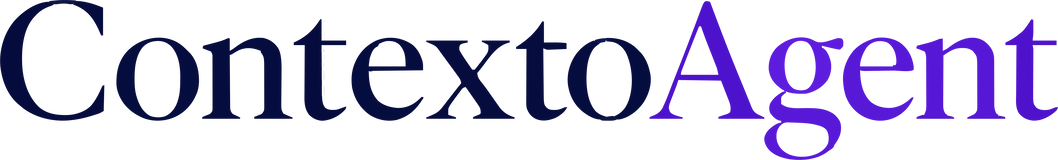
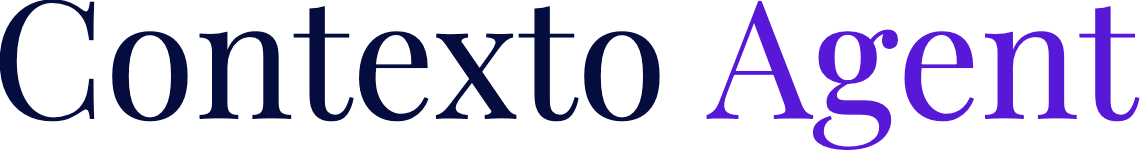
Contexto Agent, two words, everywhere a person reads it
The name is two words and the product wrote it as one -- in the tab, in
the wordmark, in the sign-in logo, in every placeholder and label, in the
desktop app's window and tray, and in what the agent is told to call the
app when it tells a student where to go. Twenty-eight of those were text
and are fixed as text. Two were pictures: the wordmark and the sign-in
logo had the name drawn in. Both are redrawn with the space, in the face
the original was set in (Playfair Display, not the site's PT Serif -- the
ball terminals and the eared g give it away), at the original size and
baseline, in the navy and violet sampled from the original strokes, with
the mark itself left untouched. The sign-in image grew a little wider for
the space, and its width rule grew with it so the mark did not shrink.

What still says ContextoAgent is on purpose: the app bundle and DMG name,
the Application Support folders, the keychain service name, and the
uninstall script that knows all three. Renaming those is a release of the
desktop app and a migration of what students already have on disk, not a
find-and-replace.

Claude-Session: https://claude.ai/code/session_01QLuHwLiKMq1ijBZcMpK3hq

Changed region(s): [[0.0, 0.0, 1.0, 1.0], [0.655, 0.0, 0.6862, 0.3125]]

diff --git a/packages/agent/src/tools/portal.ts b/packages/agent/src/tools/portal.ts
@@ -194,7 +194,7 @@ export const refreshSchoolPortal: Tool<z.infer<typeof refreshInput>, unknown> = 
     if (!ctx.portals) {
       return unavailable(
         'No computer of theirs is linked, so there is nothing that can sign in. Tell them to ' +
-          'open the ContextoAgent app and link this computer -- not that you are unable to do it.',
+          'open the Contexto Agent app and link this computer -- not that you are unable to do it.',
       );
     }
 
@@ -235,7 +235,7 @@ export const refreshSchoolPortal: Tool<z.infer<typeof refreshInput>, unknown> = 
         signedIn: false,
         note:
           `Their computer tried ${portalId} and the site would not accept the saved sign-in. ` +
-          'Say so directly. They can fix it in the ContextoAgent app under Settings, ' +
+          'Say so directly. They can fix it in the Contexto Agent app under Settings, ' +
           'Connections, Sites. Do not tell them to sign in by hand elsewhere -- there is no ' +
           'such thing here.',
       };
@@ -307,7 +307,7 @@ export const browseWithAgent: Tool<z.infer<typeof browseInput>, unknown> = {
     if (!ctx.portals) {
       return unavailable(
         'No computer of theirs is linked, so there is no browser to open. Tell them to link ' +
-          'one in the ContextoAgent app -- not that you are unable to browse.',
+          'one in the Contexto Agent app -- not that you are unable to browse.',
       );
     }
 

diff --git a/apps/web/src/screens/SiteConnections.tsx b/apps/web/src/screens/SiteConnections.tsx
@@ -226,7 +226,7 @@ export function SiteConnections() {
       {editing && (
         <div className="saved-signin">
           <p className="muted small">
-            Kept in your Mac&rsquo;s keychain on this computer. It is never sent to ContextoAgent,
+            Kept in your Mac&rsquo;s keychain on this computer. It is never sent to Contexto Agent,
             and only works for sites with a normal username and password &mdash; not ones behind
             Google.
           </p>
@@ -264,7 +264,7 @@ export function SiteConnections() {
       {bridge ? (
         <div className="saved-signin">
           <p className="muted small">
-            Your sign-in is kept in this Mac&rsquo;s keychain and never sent to ContextoAgent. It
+            Your sign-in is kept in this Mac&rsquo;s keychain and never sent to Contexto Agent. It
             works for sites with a normal username and password &mdash; not ones behind Google.
           </p>
           <div className="add-site">
@@ -303,7 +303,7 @@ export function SiteConnections() {
           </div>
         </div>
       ) : (
-        <Row label="ContextoAgent for Mac">
+        <Row label="Contexto Agent for Mac">
           <a className="button blue" href={MAC_DOWNLOAD}>
             Download for macOS
           </a>

diff --git a/apps/desktop/src/renderer/app.js b/apps/desktop/src/renderer/app.js
@@ -194,7 +194,7 @@ async function render() {
   if (!linked) {
     return app.replaceChildren(
       el('div', {}, [
-        el('h1', { text: 'ContextoAgent' }),
+        el('h1', { text: 'Contexto Agent' }),
         el('p', {
           class: 'muted',
           text: 'Reads sites that need a login — school portals, course pages, anything behind a sign-in — using the logins you complete yourself.',
@@ -220,7 +220,7 @@ async function render() {
 
   app.replaceChildren(
     el('div', {}, [
-      el('h1', { text: 'ContextoAgent' }),
+      el('h1', { text: 'Contexto Agent' }),
       el('p', { class: 'muted small', text: `Linked as ${deviceName ?? 'this computer'}` }),
       portals.length > 0
         ? el('div', { class: 'panel' }, [el('h2', { text: 'Sites' }), ...portals.map(portalRow)])

diff --git a/apps/web/src/App.tsx b/apps/web/src/App.tsx
@@ -65,7 +65,7 @@ export function App() {
     return (
       <main>
         <div className="signin">
-          <img src="/logo.png" alt="ContextoAgent" />
+          <img src="/logo.png" alt="Contexto Agent" />
           <p className="muted">An AI agent that knows your coursework.</p>
           <div className="panel">
             <p>Sign in with your educational Google account to get started.</p>
@@ -101,7 +101,7 @@ export function App() {
           */}
           {!desktop() && (
             <>
-              <p className="muted download-label">Download ContextoAgent desktop app</p>
+              <p className="muted download-label">Download Contexto Agent desktop app</p>
               <a className="button blue" href={MAC_DOWNLOAD}>
                 Download for macOS
               </a>

diff --git a/apps/desktop/app.js b/apps/desktop/app.js
@@ -208,7 +208,7 @@ async function render() {
   if (!linked) {
     return app.replaceChildren(
       el('div', {}, [
-        el('h1', { text: 'ContextoAgent' }),
+        el('h1', { text: 'Contexto Agent' }),
         el('p', {
           class: 'muted',
           text: 'Reads the school portals that have no API, using the logins you complete yourself.',
@@ -234,7 +234,7 @@ async function render() {
 
   app.replaceChildren(
     el('div', {}, [
-      el('h1', { text: 'ContextoAgent' }),
+      el('h1', { text: 'Contexto Agent' }),
       el('p', { class: 'muted small', text: `Linked as ${deviceName ?? 'this computer'}` }),
       portals.length > 0
         ? el('div', { class: 'panel' }, [el('h2', { text: 'Portals' }), ...portals.map(portalRow)])

diff --git a/apps/web/src/screens/Sidebar.tsx b/apps/web/src/screens/Sidebar.tsx
@@ -106,11 +106,11 @@ export function Sidebar({ route, working, name, email, onOpenSettings }: Props) 
     <aside className="sidebar">
       <button
         className="sidebar-brand"
-        aria-label="ContextoAgent"
+        aria-label="Contexto Agent"
         onClick={() => go({ name: 'new' })}
       >
         <LogoMark size={30} working={working} />
-        <img className="sidebar-wordmark" src="/wordmark.png" alt="ContextoAgent" />
+        <img className="sidebar-wordmark" src="/wordmark.png" alt="Contexto Agent" />
       </button>
 
       <button

diff --git a/packages/agent/src/run.ts b/packages/agent/src/run.ts
@@ -279,7 +279,7 @@ export const SIGN_IN_SECTION =
   'in the conversation while you use it.\n' +
   'Never say you cannot handle a password, cannot log in, or that they must sign in by hand. ' +
   'None of it is true here and there is no manual sign-in to send them to. If a site genuinely ' +
-  'has no saved sign-in, say so plainly and tell them where to add it: the ContextoAgent app, ' +
+  'has no saved sign-in, say so plainly and tell them where to add it: the Contexto Agent app, ' +
   'Settings, Connections, Sites.';
 
 /**

diff --git a/apps/web/src/index.css b/apps/web/src/index.css
@@ -1,5 +1,5 @@
 /*
- * ContextoAgent.
+ * Contexto Agent.
  *
  * The palette is sampled from the wordmark rather than chosen alongside it:
  * navy #001040, violet #5010d0, royal blue #4070ff, lavender #c090ff, teal
@@ -979,8 +979,9 @@ dd {
   gap: 0.4rem;
 }
 
+/* Widened with the image: the name gained a space, and the mark should not shrink for it. */
 .signin img {
-  width: min(320px, 78vw);
+  width: min(338px, 78vw);
   margin-bottom: 0.75rem;
 }
 

diff --git a/apps/web/src/screens/Chat.tsx b/apps/web/src/screens/Chat.tsx
@@ -457,7 +457,7 @@ export function Chat({ agentId }: Props) {
                  * first thing they said reads as nonsense in its place:
                  * "Message What is due friday".
                  */
-                placeholder="Message ContextoAgent"
+                placeholder="Message Contexto Agent"
                 disabled={sending}
               />
               <button

diff --git a/apps/web/src/screens/Settings.tsx b/apps/web/src/screens/Settings.tsx
@@ -166,7 +166,7 @@ function General({ me, onChange }: { me: MeProfile | null; onChange: (me: MeProf
         <span className="settings-static">{me.name}</span>
       </Row>
 
-      <Row label="What should ContextoAgent call you?">
+      <Row label="What should Contexto Agent call you?">
         <input
           className="settings-input"
           value={name}

diff --git a/apps/web/index.html b/apps/web/index.html
@@ -3,7 +3,7 @@
   <head>
     <meta charset="UTF-8" />
     <meta name="viewport" content="width=device-width, initial-scale=1.0" />
-    <title>ContextoAgent</title>
+    <title>Contexto Agent</title>
     <meta name="description" content="An AI agent that knows your coursework." />
     <meta name="theme-color" content="#0a1045" />
 

diff --git a/apps/web/src/screens/NewChat.tsx b/apps/web/src/screens/NewChat.tsx
@@ -114,7 +114,7 @@ export function NewChat({ name }: Props) {
             placeholder="How can I help you today?"
             rows={1}
             disabled={starting}
-            aria-label="Message ContextoAgent"
+            aria-label="Message Contexto Agent"
           />
 
           <div className="newchat-tools">
